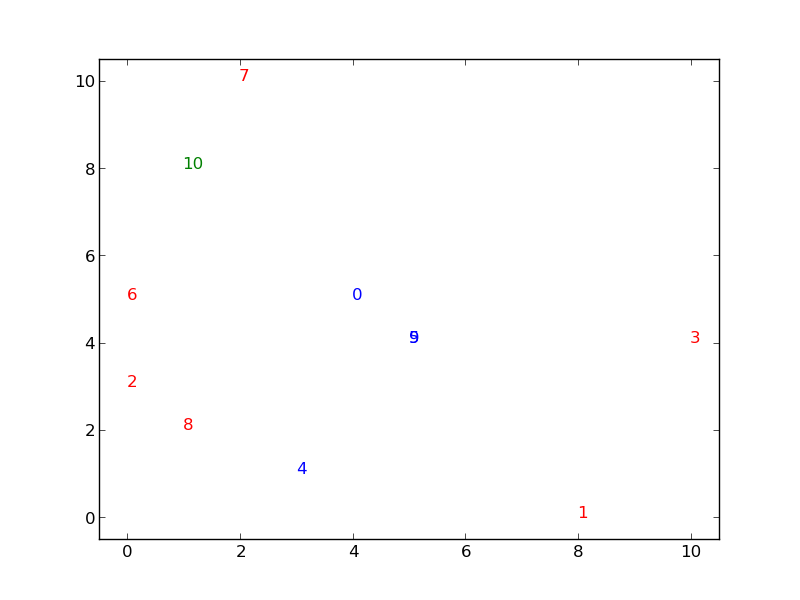
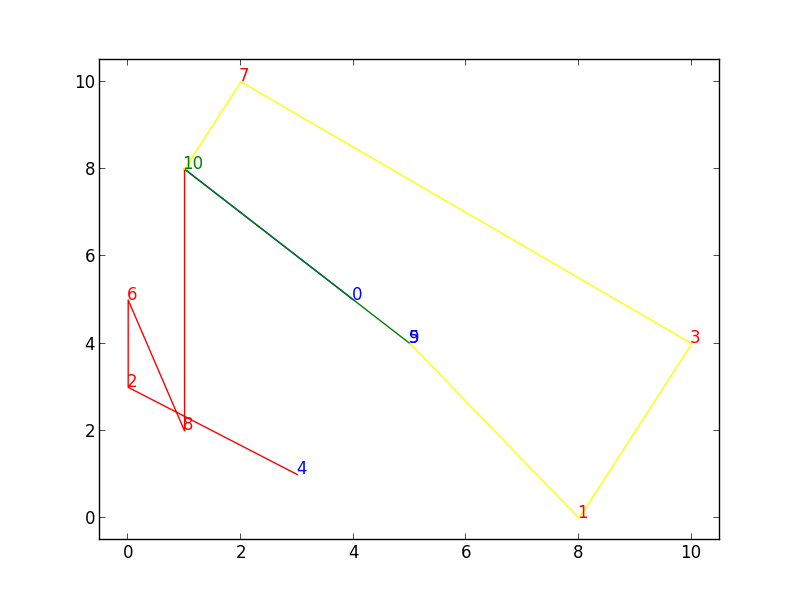
plot paths taken by drivers

diff --git a/genData.py b/genData.py
@@ -47,48 +47,58 @@ def gen(args):
                     out.write("{} {} {}\n".format(i, j, dist_i_j))
     print "Written to: {}".format(filename)
 
-def graph(fname):
-  with open(fname) as f:
-    num_locations = int(f.next().strip())
-    xs = np.empty(num_locations, dtype=float)
-    ys = np.empty(num_locations, dtype=float)
-    cats = np.empty(num_locations, dtype='uint8')
-    no_cars_xs, no_cars_ys, cars_xs, cars_ys = [], [], [], []
-    for loc in xrange(num_locations - 1):
-      # people locations
+def graph(data_fname):
+  colors = ["blue", "red", "green", "yellow", "black"]
+  with open(data_fname) as f:
+    cwd = path.dirname(path.abspath(__file__))
+    output_fname = path.join(cwd, "output", path.basename(data_fname))
+    with open(output_fname) as gen_output:
+      num_locations = int(f.next().strip())
+      xs = np.empty(num_locations, dtype=float)
+      ys = np.empty(num_locations, dtype=float)
+      cats = np.empty(num_locations, dtype='uint8')
+      for loc in xrange(num_locations - 1):
+        # people locations
+        line = f.next().rstrip()
+        m = re.search(r"(\d+(\.\d+)?)\s+(\d+(\.\d+)?)\s+(\d+)", line)
+        xs[loc] = float(m.group(1))
+        ys[loc] = float(m.group(3))
+        cats[loc] = 1 if int(m.group(5)) > 0 else 2
+      # goal
       line = f.next().rstrip()
-      m = re.search(r"(\d+(\.\d+)?)\s+(\d+(\.\d+)?)\s+(\d+)", line)
-      xs[loc] = float(m.group(1))
-      ys[loc] = float(m.group(3))
-      cats[loc] = 1 if int(m.group(5)) > 0 else 2
-    # goal
-    line = f.next().rstrip()
-    m = re.search(r"(\d+(\.\d+)?)\s+(\d+(\.\d+)?)", line)
-    loc = num_locations - 1
-    xs[loc] = float(m.group(1))
-    ys[loc] = float(m.group(3))
-    cats[loc] = 3
-    print "Plotting: {}".format([-0.5, np.max(xs) + 0.5, -0.5, np.max(ys) + 0.5])
-    plt.axis([-0.5, np.max(xs) + 0.5, -0.5, np.max(ys) + 0.5])
-    for i, (x, y) in enumerate(itertools.izip(xs, ys)):
-      if cats[i] == 1:
-        color = "blue"
-      elif cats[i] == 2:
-        color = "red"
+      m = re.search(r"(\d+(\.\d+)?)\s+(\d+(\.\d+)?)", line)
+      goal = num_locations - 1
+      xs[goal] = float(m.group(1))
+      ys[goal] = float(m.group(3))
+      cats[goal] = 3
+      print "Plotting: {}".format([-0.5, np.max(xs) + 0.5, -0.5, np.max(ys) + 0.5])
+      plt.axis([-0.5, np.max(xs) + 0.5, -0.5, np.max(ys) + 0.5])
+      for i, (x, y) in enumerate(itertools.izip(xs, ys)):
+        if cats[i] == 1:
+          color = colors[0]
+        elif cats[i] == 2:
+          color = colors[1]
+        else:
+          color = colors[2]
+        plt.text(x, y, str(i), color=color)
+      # plot paths of drivers
+      for i, line in enumerate(gen_output):
+        driver, passengers = line.split(":")
+        driver = int(driver)
+        passengers = [ int(p.group()) for p in re.finditer(r"\d+", passengers) ]
+        route = [ driver ] + passengers + [ goal ]
+        plt.plot(xs[route], ys[route], color=colors[ i % len(colors) ])
+      # old plotting code
+      # plt.plot(xs[ cats == 1 ], ys[ cats == 1 ], "bo")
+      # plt.plot(xs[ cats == 2 ], ys[ cats == 2 ], "ro")
+      # plt.plot(xs[ cats == 3 ], ys[ cats == 3 ], "yo")
+      if sys.argv[1] == "show":
+        plt.show()
       else:
-        color = "green"
-      plt.text(x, y, str(i), color=color)
-    # old plotting code
-    # plt.plot(xs[ cats == 1 ], ys[ cats == 1 ], "bo")
-    # plt.plot(xs[ cats == 2 ], ys[ cats == 2 ], "ro")
-    # plt.plot(xs[ cats == 3 ], ys[ cats == 3 ], "yo")
-    if sys.argv[1] == "show":
-      plt.show()
-    else:
-      wd = path.dirname(path.abspath(__file__))
-      if not path.exists(path.join(wd, 'plots')):
-        os.mkdir(path.join(wd, 'plots'))
-      plt.savefig(path.join(wd, 'plots', path.splitext(path.basename(fname))[0] + '.png'))
+        cwd = path.dirname(path.abspath(__file__))
+        if not path.exists(path.join(cwd, 'plots')):
+          os.mkdir(path.join(cwd, 'plots'))
+        plt.savefig(path.join(cwd, 'plots', path.splitext(path.basename(data_fname))[0] + '.png'))
 
 def dist(a,b):
     dist = ((a[0]-b[0])**2 + (a[1]-b[1])**2)**0.5
@@ -102,6 +112,6 @@ if __name__ == '__main__':
   else:
     print "usage {} <gen|graph>".format(__file__)
     print "usage: {} gen <numPeople> <numCars> <worldWidth> <worldHeight>".format(__file__)
-    print "usage: {} show <filename>".format(__file__)
-    print "usage: {} graph <filename>".format(__file__)
+    print "usage: {} show <data file> <generated output>".format(__file__)
+    print "usage: {} graph <data file> <generated output>".format(__file__)
     sys.exit(1)

diff --git a/carpool.py b/carpool.py
@@ -1,6 +1,8 @@
 
 import re
 import sys
+import os
+import os.path as path
 
 import networkx as nx
 
@@ -81,7 +83,8 @@ def main():
   if len(sys.argv) != 3:
     print "usage: {} <method> <input filename>".format(__file__)
     sys.exit(1)
-  ex = read_data(sys.argv[2])
+  inp_fname = sys.argv[2]
+  ex = read_data(inp_fname)
   print "---* dataset *---"
   print ex
   print "Drivers: {}".format(filter(lambda p: ex.people_capacity[p] > 0, range(ex.num_people)))
@@ -90,24 +93,33 @@ def main():
     print "Invalid method specified: {}".format(method)
     sys.exit(1)
   min_cost, assignment = algorithms[method](ex)
+  output_results(ex, inp_fname, method, min_cost, assignment)
+
+def output_results(ex, inp_fname, method, min_cost, assignment):
   print "---* {} results *---".format(method)
-  print "Minimum cost: {:.4}".format(min_cost)
-  print 'Minimum assignment: '
-  for i in range(len(assignment)):
-    # is a driver
-    if (assignment[i] != None):
-      print "{} drives {}".format(i, [i] + assignment[i])
-  print "Edge weights:"
-  print "\t",
-  print "\t".join([ str(item) for item in ex.distances.nodes() ])
-  for origin in ex.distances.nodes():
-    print "{}\t".format(origin),
-    for dest in ex.distances.nodes():
-      if ex.distances.has_edge(origin, dest):
-        print "{:.3}\t".format(ex.distances[origin][dest]["weight"]),
-      else:
-        print "0.0\t",
-    print
+  cwd = path.dirname(path.abspath(__file__))
+  output_folder = path.join(cwd, "output")
+  if not path.exists(output_folder):
+    os.mkdir(output_folder)
+  with open(path.join(output_folder, path.basename(inp_fname)), "w") as out:
+    print "Minimum cost: {:.4}".format(min_cost)
+    print 'Minimum assignment: '
+    for i in range(len(assignment)):
+      # is a driver
+      if (assignment[i] != None):
+        print "{} drives {}".format(i, [i] + assignment[i])
+        out.write("{}: {}\n".format(i, assignment[i]))
+    print "Edge weights:"
+    print "\t",
+    print "\t".join([ str(item) for item in ex.distances.nodes() ])
+    for origin in ex.distances.nodes():
+      print "{}\t".format(origin),
+      for dest in ex.distances.nodes():
+        if ex.distances.has_edge(origin, dest):
+          print "{:.3}\t".format(ex.distances[origin][dest]["weight"]),
+        else:
+          print "0.0\t",
+      print
 
 if __name__ == '__main__':
   main()
